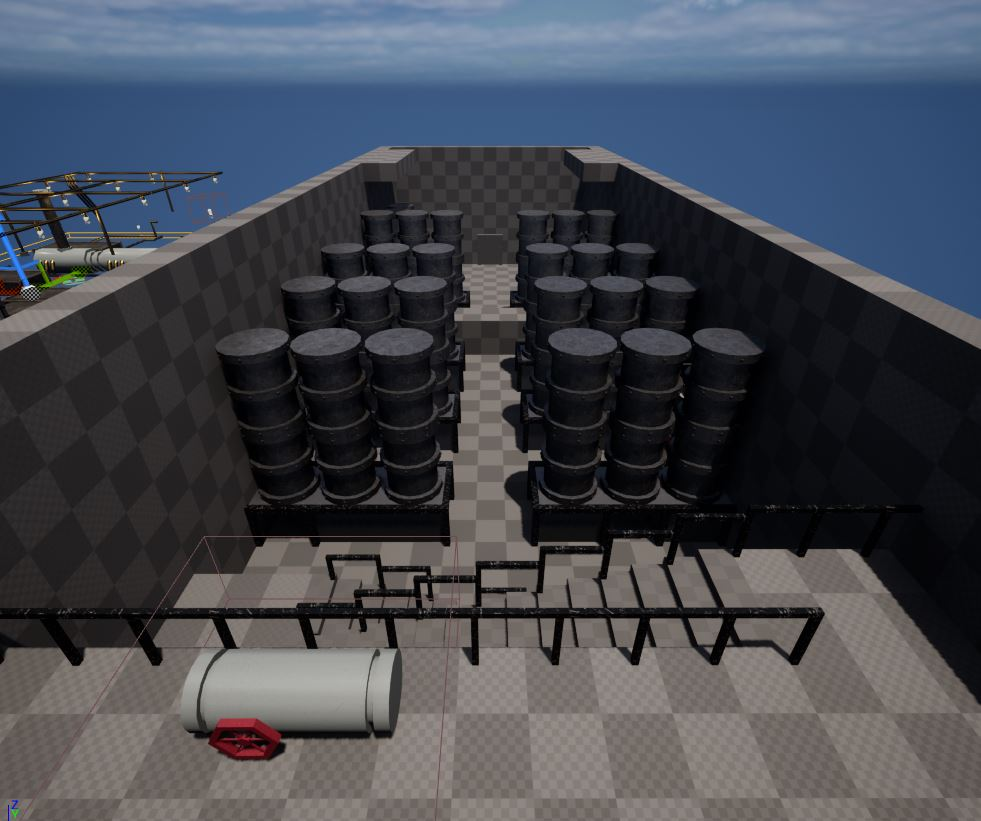
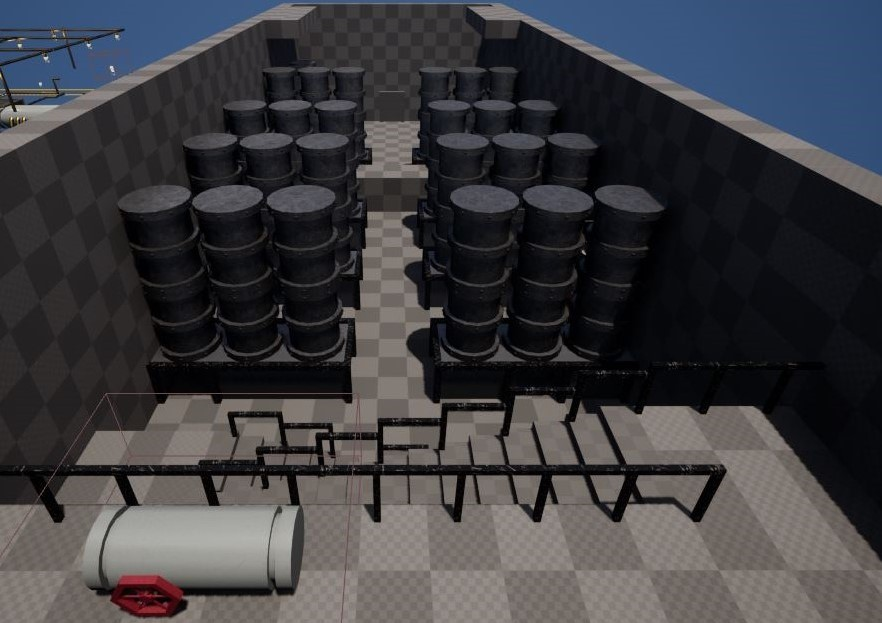
Design Process
Basement Section

diff --git a/projects/violetSteele.html b/projects/violetSteele.html
@@ -363,17 +363,72 @@
 
 				<p> In the Basement Level, I was building around the mechanics: <strong>  noise manipulation</strong> and <strong> stealth movement </strong>.</p>
 				
+				<p> To showcase these mechanics: 
+					<ul>
+						<li> Enemies had dedicated paths that encouraged players to sneak around </li>
+						<li> Players were given hiding spots</li>
+						<li> Space to use their “Gear Throw”</li>
+					</ul>
+
+				</p>
+
+				<!-- Basement Iteration 1 -->
+				<header class="style2">
+					<h2> Iteration 1 </h2>
+				</header>
+
 				<figure>
 					<center>
-						<img style="border:2px solid black" src="images/Basement/Basement 3.JPG" alt="Greyboxed Version of the Sewer" width="500"/>
-						<img style="border:2px solid black" src="images/Basement/Basement 5.JPG" alt="Greyboxed Version of the Sewer" width="500"/>
+						<img style="border:2px solid black" align="right" src="images/Basement/Basement 1 - 2D.JPG" alt="Greyboxed Version of the Sewer" width="500"/>
 						<figcaption> <strong> </strong></figcaption>
 					</center>
 				</figure>
 
+				<p> The first iteration of the basement level didn’t meet the criteria the way it was intended as:
+					<ul>
+						<li> It had low player visibility </li>
+						<li> Too many choke points, player’s paths were very restrictive</li>
+						<li> Player’s had difficulty finding a good use for their gear throw</li>
+					</ul>	
+				</p>
 
+				<br><br><br><br><br><br><br><br>
 
+				<!-- Basement Iteration 2 -->
+				<header class="style2">
+					<h2> Iteration 2 </h2>
+				</header>
 
+				<figure>
+					<center>
+						<img style="border:2px solid black" align="right" src="images/Basement/Basement 2 - 2D.JPG" alt="Greyboxed Version of the Sewer" width="500"/>
+						<figcaption> <strong> </strong></figcaption>
+					</center>
+				</figure>
+				
+				<p> In the second iteration I fixed these problems by:
+					<ul>
+						<li> Added more hiding spots</li>
+						<li> Started the player in an elevated position, which would allow players to plan.</li>
+						<li> More opportunities to use the gear throw</li>
+					</ul>
+
+				</p>
+
+				<br><br><br><br><br><br><br><br>
+
+				<figure>
+					<center>
+						<img style="border:2px solid black" src="images/Basement/Basement - Communication 2.png" alt="Greyboxed Version of the Sewer" width="600"/>
+						<img style="border:2px solid black" src="images/Basement/Basement - Mechanics 1.png" alt="Greyboxed Version of the Sewer" width="600"/>
+						<img style="border:2px solid black" src="images/Basement/Basement - Mechanics 2.png" alt="Greyboxed Version of the Sewer" width="600"/>
+						<img style="border:2px solid black" src="images/Basement/Basement - Communication 1.png" alt="Greyboxed Version of the Sewer" width="600"/>
+						<figcaption> <strong> Screenshots of the Basement Level </strong></figcaption>
+					</center>
+				</figure>
+
+				<br><br>
+				
 			<!-- Placement -->
 				<header class="style1">
 					<h2> Placement </h2>
